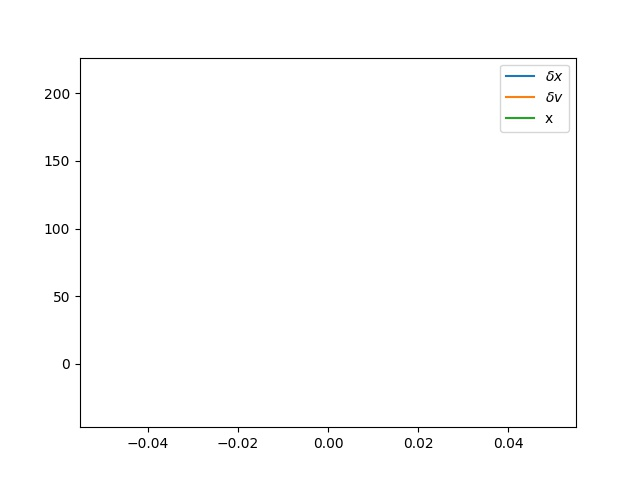
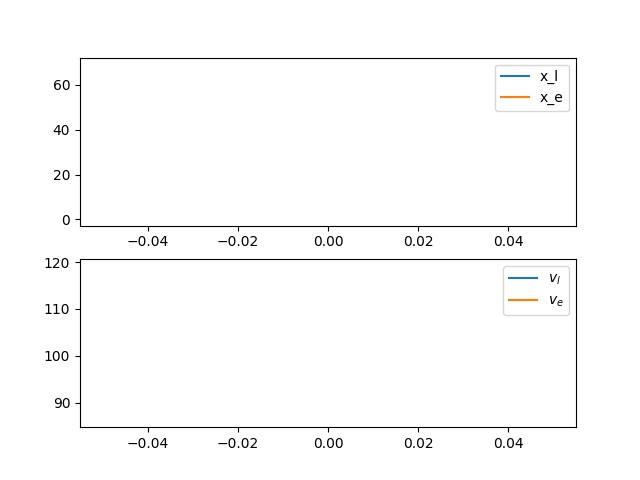
update on rewards

diff --git a/examples/ACC/acc_LP.py b/examples/ACC/acc_LP.py
@@ -12,7 +12,7 @@ import numpy.linalg as LA
 class ACC:
 	deltaT = 0.1
 	max_iteration = 300
-	mu = 0.0001
+	mu = 0
 
 	def __init__(self):
 		self.t = 0
@@ -67,7 +67,7 @@ def SVG(control_param, view=False):
 	dt = env.deltaT
 	reward = 0
 	while not done:
-		if -reward >= 10:
+		if -reward >= 1000:
 			break
 		x_l, v_l, r_l, x_e, v_e, r_e = state[0], state[1], state[2], state[3], state[4], state[5]
 		a_l = control_param[0].dot(np.array([1, 1, 1]))
@@ -75,24 +75,35 @@ def SVG(control_param, view=False):
 		# tau = control_param[2].dot(state)
 		state_tra.append(state)
 		control_tra.append(np.array([a_l, a_e]))
-		
+		# print(state)
 		next_state, reward, done = env.step(a_l, a_e)
 		# print(reward)
-		distance_tra.append(-reward)
+		distance_tra.append(reward)
 		state = next_state
 
 	# print(distance_tra[-1])
 	if view:
-		x_diff = [s[0] - s[3] for s in state_tra]
-		v_diff = [s[1] - s[4] for s in state_tra]
+		x_l = [s[0] for s in state_tra]
+		x_e = [s[3] for s in state_tra]
+
+		v_l = [s[1] for s in state_tra]
+		v_e = [s[4] for s in state_tra]
 		# z_diff = [s[2] - s[8] for s in state_tra]
-		x = [s[0] for s in state_tra]
-		plt.plot(x_diff, label='$\delta x$')
-		plt.plot(v_diff, label='$\delta v$')
+		# x = [s[0] for s in state_tra]
+		fig = plt.figure()
+		# fig2 = plt.figure()
+		ax1 = fig.add_subplot(2,1,1)
+		ax1.plot(x_l, label='x_l')
+		ax1.plot(x_e, label='x_e')
+		ax1.legend()
+		# fig1.savefig('test_displacement.jpg')
+		ax2 = fig.add_subplot(2,1,2)
+		ax2.plot(v_l, label='$v_l$')
+		ax2.plot(v_e, label='$v_e$')
 		# plt.plot(z_diff, label='$\delta z$')
-		plt.plot(x, label='x')
-		plt.legend()
-		plt.savefig('test.jpg')
+		# plt.plot(x, label='x')
+		ax2.legend()
+		fig.savefig('test.jpg')
 
 	vs_prime = np.array([0.0] * 6)
 	vtheta_prime = np.array([[0.0] * 3, [0.0] * 3])
@@ -125,18 +136,18 @@ def SVG(control_param, view=False):
 		fs = np.array([
 			[1,dt,0,0,0,0],
 			[0,1,dt,0,0,0],
-			[0,-2*env.mu*v_l,1-2*dt,0,0,0],
+			[0,0,1-2*dt,0,0,0],
 			[0,0,0,1,dt,0],
 			[0,0,0,0,1,dt],
-			[0,0,0,0,-2*env.mu*v_e,1-2*dt]		
+			[0,0,0,0,0,1-2*dt]		
 			])	
 
 		fa = np.array([
 			[0,0],[0,0],[2*dt,0],[0,0],[0,0],[0,2*dt]
 			])
-		# print(fa.shape)
-		# assert False	
+		
 		vs = rs + gamma * vs_prime.dot(fs + fa.dot(pis))
+		print(vs)
 		pitheta = np.array([
 			[[1,1,1],[0,0,0]], 
 			[[0,0,0],[x_l-x_e,v_l-v_e,r_l-r_e]]
@@ -146,7 +157,8 @@ def SVG(control_param, view=False):
 		vtheta =  gamma * vs_prime.dot(fa).dot(pitheta) + gamma * vtheta_prime
 		vs_prime = vs
 		vtheta_prime = vtheta
-
+	# print(vtheta)
+	# print(state)
 	return vtheta, state
 
 if __name__ == '__main__':
@@ -167,13 +179,14 @@ if __name__ == '__main__':
 	control_param = np.array([-0.0]*6)
 	control_param = np.reshape(control_param, (2, 3))
 	vtheta, state = SVG(control_param)
-	for i in range(500):
+	for i in range(1):
 		vtheta, final_state = SVG(control_param)
 		if i == 0:
-			print(vtheta.shape)
+			print(vtheta)
 		control_param += 1e-3 * np.clip(vtheta, -1e3, 1e3)
+		# print(vtheta)
 		if i > 10:
 			control_param += 0.1*vtheta
 	# print()
-	print(final_state, vtheta)
+	# print(final_state, vtheta)
 	SVG(control_param, view=True)
